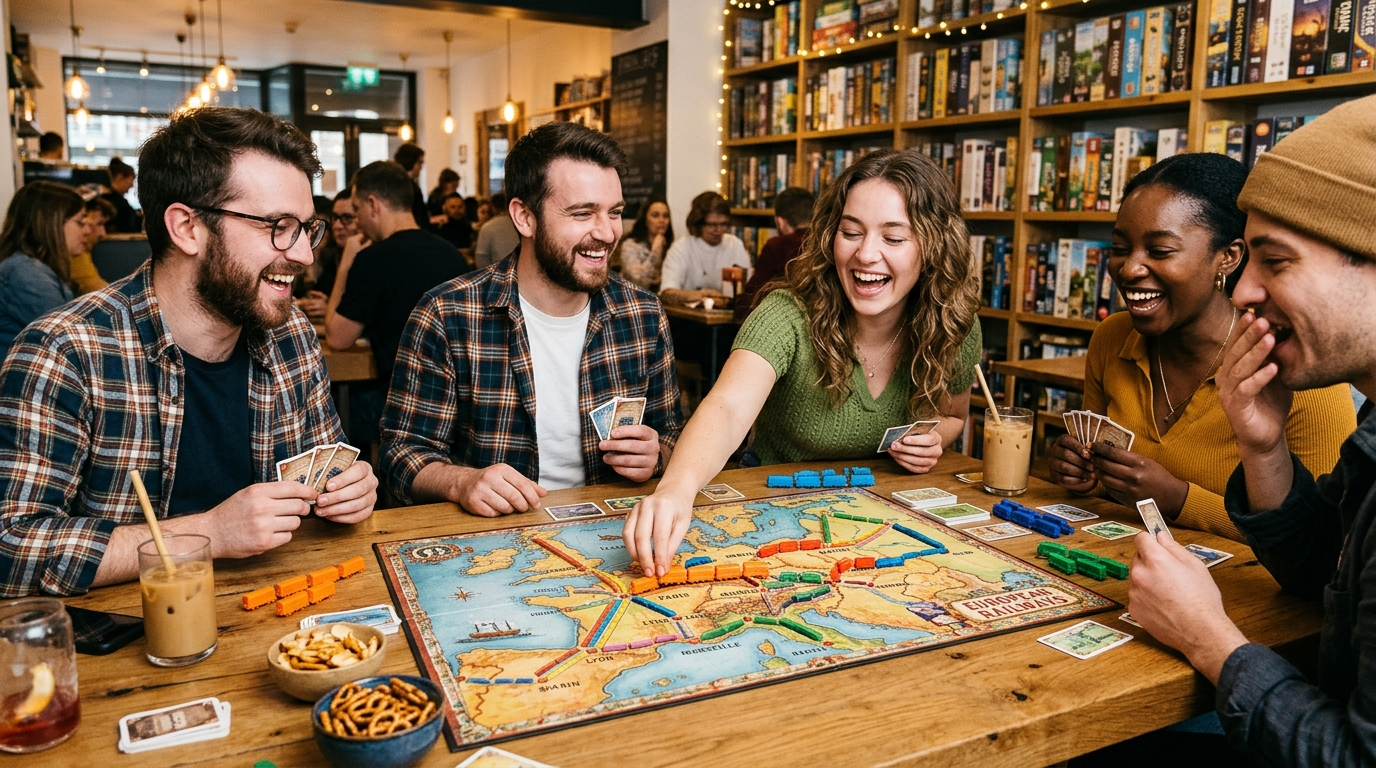
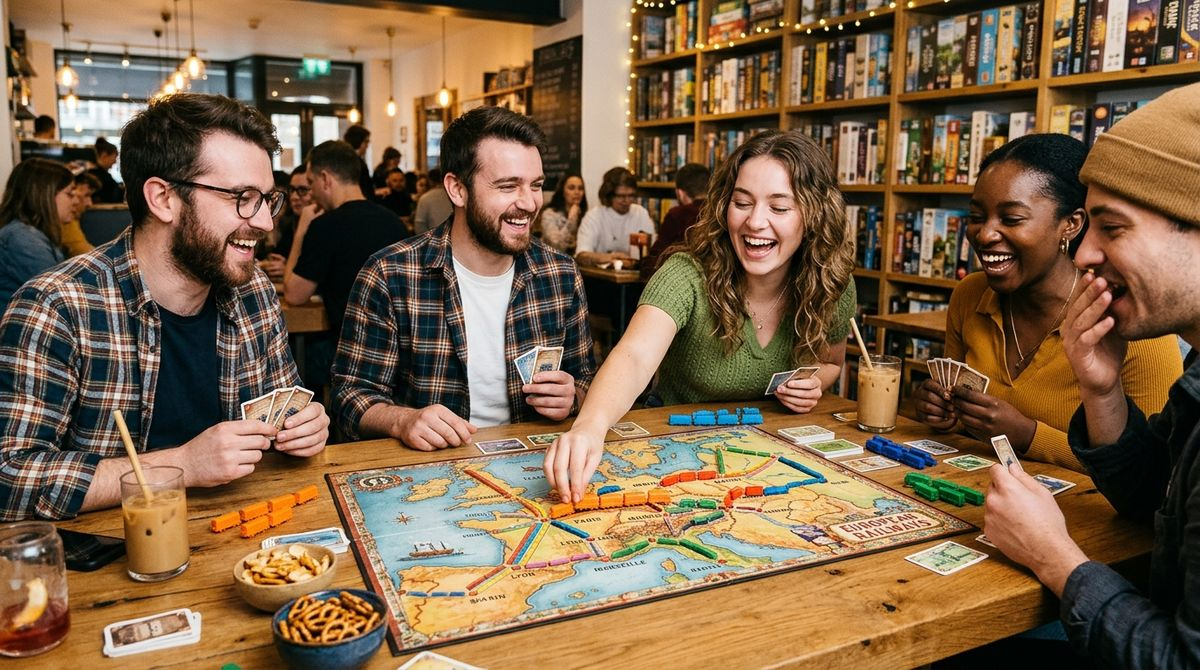
- Ridimensionate le 6 immagini JPG da 1376px a 1200px - Generate versioni WebP con compressione dell'85% (~5.7MB -> ~867KB) - Ottimizzati i file JPG di fallback e aggiornati i path in CSS e data.js

Changed region(s): [[0.7092, 0.7761, 0.7708, 0.806], [0.5242, 0.7463, 0.555, 0.7761]]

diff --git a/pixel-bean-cafe/js/data.js b/pixel-bean-cafe/js/data.js
@@ -34,7 +34,7 @@ export const carouselGames = [
         title: "Catan",
         badge: "Strategia & Commercio",
         description: "Commercia, costruisci ed espandi il tuo insediamento davanti a una tazza di specialty coffee.",
-        image: "../assets/img/catan.jpg",
+        image: "../assets/img/catan.webp",
         alt: "Clienti che giocano a Catan al bistrò"
     },
     {
@@ -42,7 +42,7 @@ export const carouselGames = [
         title: "Wingspan",
         badge: "Engine Building & Relax",
         description: "Attira le specie più affascinanti nella tua riserva naturale sorseggiando un rilassante matcha latte.",
-        image: "../assets/img/wingspan.jpg",
+        image: "../assets/img/wingspan.webp",
         alt: "Clienti che giocano a Wingspan al bistrò"
     },
     {
@@ -50,7 +50,7 @@ export const carouselGames = [
         title: "Ticket to Ride",
         badge: "Avventura su Rotaia",
         description: "Collega le capitali su rotaia e completa i tuoi itinerari segreti tra risate e snack salva-carte.",
-        image: "../assets/img/ticket-to-ride.jpg",
+        image: "../assets/img/ticket-to-ride.webp",
         alt: "Clienti che giocano a Ticket to Ride al bistrò"
     },
     {
@@ -58,7 +58,7 @@ export const carouselGames = [
         title: "Terraforming Mars",
         badge: "Fantascienza & Strategia",
         description: "Guida una corporazione per rendere abitabile il pianeta rosso in una serata di pura strategia ed espresso d'autore.",
-        image: "../assets/img/terraforming-mars.jpg",
+        image: "../assets/img/terraforming-mars.webp",
         alt: "Clienti che giocano a Terraforming Mars al bistrò"
     },
     {
@@ -66,7 +66,7 @@ export const carouselGames = [
         title: "Codenames",
         badge: "Party Game a Squadre",
         description: "Sfida gli amici a colpi di intuizione e parole chiave nel party game a squadre più divertente e frenetico.",
-        image: "../assets/img/codenames.jpg",
+        image: "../assets/img/codenames.webp",
         alt: "Clienti che giocano a Codenames al bistrò"
     }
 ];

diff --git a/pixel-bean-cafe/style/styles.css b/pixel-bean-cafe/style/styles.css
@@ -58,7 +58,7 @@ body {
 
 #hero {
   background: var(--gradient-bg-main),
-    url('../assets/img/cafe-hero.jpg') center / cover no-repeat;
+    url('../assets/img/cafe-hero.webp') center / cover no-repeat;
   min-height: 80vh;
   display: flex;
   align-items: center;
